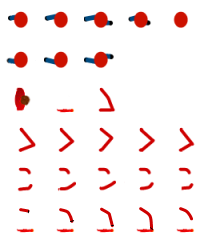
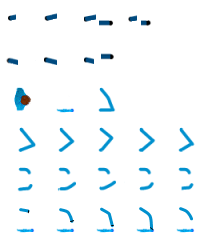
New player and sprite textures

diff --git a/test/model/sprites/EnemyTest.java b/test/model/sprites/EnemyTest.java
@@ -17,7 +17,7 @@ public class EnemyTest {
 
 	@Test
 	public void moveXAxis(){
-		Enemy e = new Enemy(new Position(1,1), 0.2f, null, 50);
+		Enemy e = new Enemy(new Position(1,1), 0.2f, null, 50, 0);
 		e.setState(Enemy.State.RUNNING);
 		e.setDirection((float) (Math.PI/2));
 		e.moveXAxis();
@@ -38,7 +38,7 @@ public class EnemyTest {
 	
 	@Test
 	public void moveYAxis(){
-		Enemy e = new Enemy(new Position(1,1), 0.2f, null, 50);
+		Enemy e = new Enemy(new Position(1,1), 0.2f, null, 50, 0);
 		e.setState(Enemy.State.RUNNING);
 		
 		e.setDirection((float) (Math.PI/2));
@@ -62,7 +62,7 @@ public class EnemyTest {
 	@Test
 	public void getActiveWeapon(){
 		Enemy e = new Enemy(new Position(1,1), 0.2f, WeaponFactory.createWeapon
-			(WeaponFactory.Type.FISTS, WeaponFactory.Level.RUSTY), 50);
+			(WeaponFactory.Type.FISTS, WeaponFactory.Level.RUSTY), 50, 0);
 		Weapon w = e.getActiveWeapon();
 		
 		assertTrue(w.toString().equals("Rusty Fists"));
@@ -79,27 +79,27 @@ public class EnemyTest {
 	
 	@Test
 	public void getPosition(){
-		Enemy e = new Enemy(new Position(1f,1f), 1f, null, 1);
+		Enemy e = new Enemy(new Position(1f,1f), 1f, null, 1, 0);
 		e.setPosition(new Position(1.5f, 2f));
 		assertTrue(e.getPosition().getX() == 1.5f && e.getPosition().getY() == 2f);
 	}
 	
 	@Test
 	public void setPosition(){
-		Enemy e = new Enemy(new Position(1,1), 0.2f, null, 50);
+		Enemy e = new Enemy(new Position(1,1), 0.2f, null, 50, 0);
 		e.setPosition(new Position(2,3));
 		assertTrue(e.getPosition().getX() == 2 && e.getPosition().getY() == 3);
 	}
 	
 	@Test
 	public void getHealth(){
-		Enemy e = new Enemy(new Position(1,1), 0.2f, null, 50);
+		Enemy e = new Enemy(new Position(1,1), 0.2f, null, 50, 0);
 		assertTrue(e.getHealth() == 50);
 	}
 	
 	@Test
 	public void setDirection(){
-		Enemy e = new Enemy(new Position(1,1), 0.2f, null, 50);
+		Enemy e = new Enemy(new Position(1,1), 0.2f, null, 50, 0);
 		e.setDirection(1);
 		assertTrue(e.getDirection() == 1);
 	}
@@ -131,14 +131,14 @@ public class EnemyTest {
 //	
 	@Test 
 	public void ReduceHealth(){
-		Enemy e = new Enemy(new Position(1,1), 0.2f, null, 50);
+		Enemy e = new Enemy(new Position(1,1), 0.2f, null, 50, 0);
 		e.reduceHealth(10);
 		assertTrue(e.getHealth() == 40);
 	}
 	
 	@Test
 	public void getProjectileSpawn(){
-		Enemy e = new Enemy(new Position(1,1), 0.2f, null, 50);
+		Enemy e = new Enemy(new Position(1,1), 0.2f, null, 50, 0);
 		
 		Position projectileSpawn = new Position(e.getPosition().getX() + 
 				e.getHitBox().getWidth()/2 + (float)(Math.cos(e.getDirection())*0.5f), 
@@ -151,7 +151,7 @@ public class EnemyTest {
 	
 	@Test
 	public void getCenter(){
-		Enemy e = new Enemy(new Position(1,1), 0.2f, null, 50);
+		Enemy e = new Enemy(new Position(1,1), 0.2f, null, 50, 0);
 		
 		float targetX = e.getPosition().getX() + e.getHitBox().getWidth()/2;
 		float targetY = e.getPosition().getY() + e.getHitBox().getHeight()/2; 
@@ -162,9 +162,9 @@ public class EnemyTest {
 	
 	@Test
 	public void restore(){
-		Enemy e = new Enemy(new Position(1,1), 0.2f, null, 50);
+		Enemy e = new Enemy(new Position(1,1), 0.2f, null, 50, 0);
 		String[] s = e.getData();
-		Enemy e2 = new Enemy(new Position(1,1), 0.2f, null, 50);
+		Enemy e2 = new Enemy(new Position(1,1), 0.2f, null, 50, 0);
 		e2.restore(s);
 		assertTrue(e.getHealth() == e2.getHealth());
 		assertTrue(e.getSpeed() == e2.getSpeed());
@@ -174,7 +174,7 @@ public class EnemyTest {
 	
 	@Test
 	public void moveBack(){
-		Enemy e = new Enemy(new Position(1,1), 0.2f, null, 50);
+		Enemy e = new Enemy(new Position(1,1), 0.2f, null, 50, 0);
 		e.setDirection((float) (Math.PI/1.5));
 		e.moveYAxis();
 		e.moveXAxis();
@@ -192,40 +192,40 @@ public class EnemyTest {
 
 	@Test
 	public void getHitBox(){
-		Enemy e = new Enemy(new Position(1,1), 0.2f, null, 50);
+		Enemy e = new Enemy(new Position(1,1), 0.2f, null, 50, 0);
 		assertTrue(e.getHitBox() instanceof CollisionBox);
 	}
 	
 	@Test
 	public void getMoveBox(){
-		Enemy e = new Enemy(new Position(1,1), 0.2f, null, 50);
+		Enemy e = new Enemy(new Position(1,1), 0.2f, null, 50, 0);
 		assertTrue(e.getMoveBox() instanceof CollisionBox);
 	}
 	
 	@Test
 	public void pickUpItem(){
-		Enemy e = new Enemy(new Position(1,1), 0.2f, null, 50);
+		Enemy e = new Enemy(new Position(1,1), 0.2f, null, 50, 0);
 		assertTrue(!e.pickUpItem(SupplyFactory.createRandomSupply(e.getPosition())));
 		assertTrue(!e.pickUpItem(WeaponFactory.createRandomWeapon()));
 	}
 	
 	@Test
 	public void setPathfindingListIndex(){
-		Enemy e = new Enemy(new Position(1,1), 0.2f, null, 50);
+		Enemy e = new Enemy(new Position(1,1), 0.2f, null, 50, 0);
 		e.setPathfindingListIndex(5);
 		assertTrue(e.getPathfindingListIndex() == 5);
 	}
 	
 	@Test
 	public void getPathfindingListIndex(){
-		Enemy e = new Enemy(new Position(1,1), 0.2f, null, 50);
+		Enemy e = new Enemy(new Position(1,1), 0.2f, null, 50, 0);
 		e.setPathfindingListIndex(5);
 		assertTrue(e.getPathfindingListIndex() == 5);
 	}
 	
 	@Test
 	public void setPathfindingList(){
-		Enemy e = new Enemy(new Position(1,1), 0.2f, null, 50);
+		Enemy e = new Enemy(new Position(1,1), 0.2f, null, 50, 0);
 		List<Position> list = new ArrayList<Position>();
 		e.setPathfindingList(list);
 		assertTrue(e.getPathfindingList() == list);
@@ -233,7 +233,7 @@ public class EnemyTest {
 	
 	@Test
 	public void getPathfindingList(){
-		Enemy e = new Enemy(new Position(1,1), 0.2f, null, 50);
+		Enemy e = new Enemy(new Position(1,1), 0.2f, null, 50, 0);
 		List<Position> list = new ArrayList<Position>();
 		e.setPathfindingList(list);
 		assertTrue(e.getPathfindingList() == list);
@@ -241,13 +241,13 @@ public class EnemyTest {
 	
 	@Test
 	public void getSpeed(){
-		Enemy e = new Enemy(new Position(1,1), 0.2f, null, 50);
+		Enemy e = new Enemy(new Position(1,1), 0.2f, null, 50, 0);
 		assertTrue(e.getSpeed() == 0.2f);
 	}
 		
 	@Test
 	public void setState(){
-		Enemy e = new Enemy(new Position(1,1), 0.2f, null, 50);
+		Enemy e = new Enemy(new Position(1,1), 0.2f, null, 50, 0);
 
 		e.setState(Enemy.State.STANDING);
 		assertTrue(e.getState() == Enemy.State.STANDING);
@@ -261,7 +261,7 @@ public class EnemyTest {
 	
 	@Test
 	public void setWay(){
-		Enemy e = new Enemy(new Position(1,1), 0.2f, null, 50);
+		Enemy e = new Enemy(new Position(1,1), 0.2f, null, 50, 0);
 		List<Position> list = new ArrayList<Position>();
 		e.setPathfindingList(new ArrayList<Position>());
 		e.setPathfindingListIndex(5);
@@ -272,7 +272,7 @@ public class EnemyTest {
 	
 	@Test
 	public void getData(){
-		Enemy e = new Enemy(new Position(1,1), 0.2f, null, 50);
+		Enemy e = new Enemy(new Position(1,1), 0.2f, null, 50, 0);
 		
 		String[] s = new String[] {
 				e.getHealth() + "",
@@ -287,7 +287,7 @@ public class EnemyTest {
 	
 	@Test
 	public void setWeapon(){
-		Enemy e = new Enemy(new Position(1,1), 0.2f, null, 50);
+		Enemy e = new Enemy(new Position(1,1), 0.2f, null, 50, 0);
 		Weapon w = WeaponFactory.createRandomWeapon();
 		e.setWeapon(w);
 		assertTrue(e.getActiveWeapon() == w);

diff --git a/src/view/EnemyView.java b/src/view/EnemyView.java
@@ -10,6 +10,7 @@ import java.beans.PropertyChangeListener;
 
 import model.geometrical.Position;
 import model.other.Animation;
+import model.sprites.Enemy;
 import model.sprites.Sprite;
 
 /**
@@ -18,11 +19,15 @@ import model.sprites.Sprite;
  * @author
  *
  */
-public class SpriteView implements ObjectRenderer<Sprite>, PropertyChangeListener {
+public class EnemyView implements ObjectRenderer<Enemy>, PropertyChangeListener {
 
-	private Sprite sprite;
+	private Enemy sprite;
 	private StatusBar hpbar;
-	private static BufferedImage[] texture1 = Resources.splitImages("zombie01.png", 5, 4);
+	private static BufferedImage[][] texture = {
+		Resources.splitImages("zombie00.png", 5, 4),
+		Resources.splitImages("zombie01.png", 5, 4),
+		Resources.splitImages("zombie02.png", 5, 4)
+	};
 	
 	//Leg animations
 	private Animation walkAnimation = new Animation(new int[]{0,1,2,3,4,5,6,7}, 200, true);
@@ -38,17 +43,17 @@ public class SpriteView implements ObjectRenderer<Sprite>, PropertyChangeListene
 	 * Creates a new sprite view which will render the specified sprite.
 	 * @param sprite the sprite to render.
 	 */
-	public SpriteView(Sprite sprite) {
+	public EnemyView(Enemy sprite) {
 		this.setObject(sprite);
 	}
 	
 	@Override
-	public Sprite getObject() {
+	public Enemy getObject() {
 		return this.sprite;
 	}
 
 	@Override
-	public void setObject(Sprite object) {
+	public void setObject(Enemy object) {
 		this.sprite = object;
 		this.hpbar = new StatusBar(0.1f, 1f, object.getHealth());
 		object.addListener(this);
@@ -76,16 +81,16 @@ public class SpriteView implements ObjectRenderer<Sprite>, PropertyChangeListene
 			transformer.concatenate(AffineTransform.getRotateInstance(-sprite.getDirection(), rX, rY));
 			transformer.concatenate(AffineTransform.getTranslateInstance(x, y));
 			if(sprite.getState() == Sprite.State.RUNNING) {
-				g2d.drawImage(texture1[runAnimation.getFrame()], transformer, null);
+				g2d.drawImage(texture[sprite.getImageNbr()][runAnimation.getFrame()], transformer, null);
 			}else if(sprite.getState() == Sprite.State.WALKING) {
-				g2d.drawImage(texture1[walkAnimation.getFrame()], transformer, null);
+				g2d.drawImage(texture[sprite.getImageNbr()][walkAnimation.getFrame()], transformer, null);
 			}
-			g2d.drawImage(texture1[standImage], transformer, null);
+			g2d.drawImage(texture[sprite.getImageNbr()][standImage], transformer, null);
 			
 			if(activeAnimation != null && activeAnimation.isRunning()) {
-				g2d.drawImage(texture1[activeAnimation.getFrame()], transformer, null);
+				g2d.drawImage(texture[sprite.getImageNbr()][activeAnimation.getFrame()], transformer, null);
 			}else{
-				g2d.drawImage(texture1[idleArms], transformer, null);
+				g2d.drawImage(texture[sprite.getImageNbr()][idleArms], transformer, null);
 			}
 			
 			//Draws dev data

diff --git a/src/model/sprites/Enemy.java b/src/model/sprites/Enemy.java
@@ -23,6 +23,7 @@ public class Enemy implements Sprite{
 	private CollisionBox hitBox;
 	private List<Position> pathfindingList;
 	private int pathfindingListIndex;
+	private int imageNbr;
 
 	/**
 	 * Creates a new enemy.
@@ -30,8 +31,9 @@ public class Enemy implements Sprite{
 	 * @param speed the speed of the enemy.
 	 * @param weapon the weapon of the enemy.
 	 * @param health the health of the ememy.
+	 * @param imageNbr the image to use.
 	 */
-	protected Enemy(Position position, float speed, Weapon weapon, int health){
+	protected Enemy(Position position, float speed, Weapon weapon, int health, int imageNbr){
 		this.setState(Sprite.State.STANDING);
 		this.speed = speed;
 		this.weapon = weapon;
@@ -39,6 +41,15 @@ public class Enemy implements Sprite{
 		collisionBox = new Rectangle(0, 0, 0.7f, 0.7f);
 		hitBox = new Rectangle(0, 0, 0.5f, 0.5f);
 		this.setPosition(position);
+		this.imageNbr = imageNbr;
+	}
+	
+	/**
+	 * Gives the number of the image to use.
+	 * @return the number of the image to use.
+	 */
+	public int getImageNbr() {
+		return this.imageNbr;
 	}
 	
 	/**
@@ -289,6 +300,7 @@ public class Enemy implements Sprite{
 		this.setPosition(center);
 		this.direction = Float.parseFloat(data[4]);
 		this.state = State.fromString(data[5]);
+		this.imageNbr = Integer.parseInt(data[6]);
 	}
 
 	@Override
@@ -299,7 +311,8 @@ public class Enemy implements Sprite{
 				this.getCenter().getX() + "",
 				this.getCenter().getY() + "",
 				this.direction + "",
-				this.state.toString()
+				this.state.toString(),
+				this.imageNbr + "",
 		};
 	}
 

diff --git a/src/view/GamePanel.java b/src/view/GamePanel.java
@@ -25,6 +25,7 @@ import model.GameModel;
 import model.geometrical.CollisionBox;
 import model.geometrical.Position;
 import model.items.weapons.Projectile;
+import model.sprites.Enemy;
 import model.sprites.Player;
 import model.sprites.Sprite;
 import model.items.Item;
@@ -157,7 +158,7 @@ public class GamePanel extends IGamePanel implements PropertyChangeListener, Mou
 			if(s instanceof Player) {
 				objects.add(new PlayerView((Player)s));
 			}else{
-				objects.add(new SpriteView(s));
+				objects.add(new EnemyView((Enemy)s));
 			}
 		}
 		for(Projectile p : this.model.getWorld().getProjectiles()) {
@@ -212,7 +213,7 @@ public class GamePanel extends IGamePanel implements PropertyChangeListener, Mou
 			if(e.getNewValue() instanceof Player) {
 				this.objects.add(new PlayerView((Player)e.getNewValue()));
 			}else{
-				this.objects.add(new SpriteView((Sprite)e.getNewValue()));
+				this.objects.add(new EnemyView((Enemy)e.getNewValue()));
 			}
 		}else if(e.getPropertyName().equals(GameModel.REMOVED_OBJECT)) {
 			for(ObjectRenderer<?> or : this.objects) {

diff --git a/src/model/sprites/EnemyFactory.java b/src/model/sprites/EnemyFactory.java
@@ -18,7 +18,7 @@ public class EnemyFactory {
 	public static Enemy createEasyEnemy(Position pos){
 		return new Enemy(pos, 0.045f, 
 			WeaponFactory.createWeapon(WeaponFactory.Type.FISTS, 
-				WeaponFactory.Level.NORMAL), 50);
+				WeaponFactory.Level.NORMAL), 50, 0);
 	}
 	
 	/**
@@ -27,7 +27,7 @@ public class EnemyFactory {
 	 */
 	public static Enemy createMediumEnemy(Position pos){
 		return new Enemy(pos, 0.08f, WeaponFactory.createWeapon(WeaponFactory.Type.FISTS, 
-				WeaponFactory.Level.LARGE), 100);
+				WeaponFactory.Level.LARGE), 100, 1);
 	}
 	
 	/**
@@ -36,7 +36,7 @@ public class EnemyFactory {
 	 */
 	public static Enemy createHardEnemy(Position pos){
 		return new Enemy(pos, 0.09f, WeaponFactory.createWeapon(WeaponFactory.Type.FISTS, 
-				WeaponFactory.Level.BADASS), 150);
+				WeaponFactory.Level.BADASS), 150, 2);
 	}
 
 }

diff --git a/test/model/sprites/PlayerTest.java b/test/model/sprites/PlayerTest.java
@@ -35,7 +35,7 @@ public class PlayerTest {
 		assertTrue(p.getPosition().getX() < 1);
 		assertTrue(p.getPosition().getY() == 1);
 		
-		Enemy e = new Enemy(new Position(1,1), 0.2f, null, 50);
+		Enemy e = new Enemy(new Position(1,1), 0.2f, null, 50, 0);
 		e.setState(Enemy.State.RUNNING);
 		
 		e.setDirection((float) (Math.PI/2));
